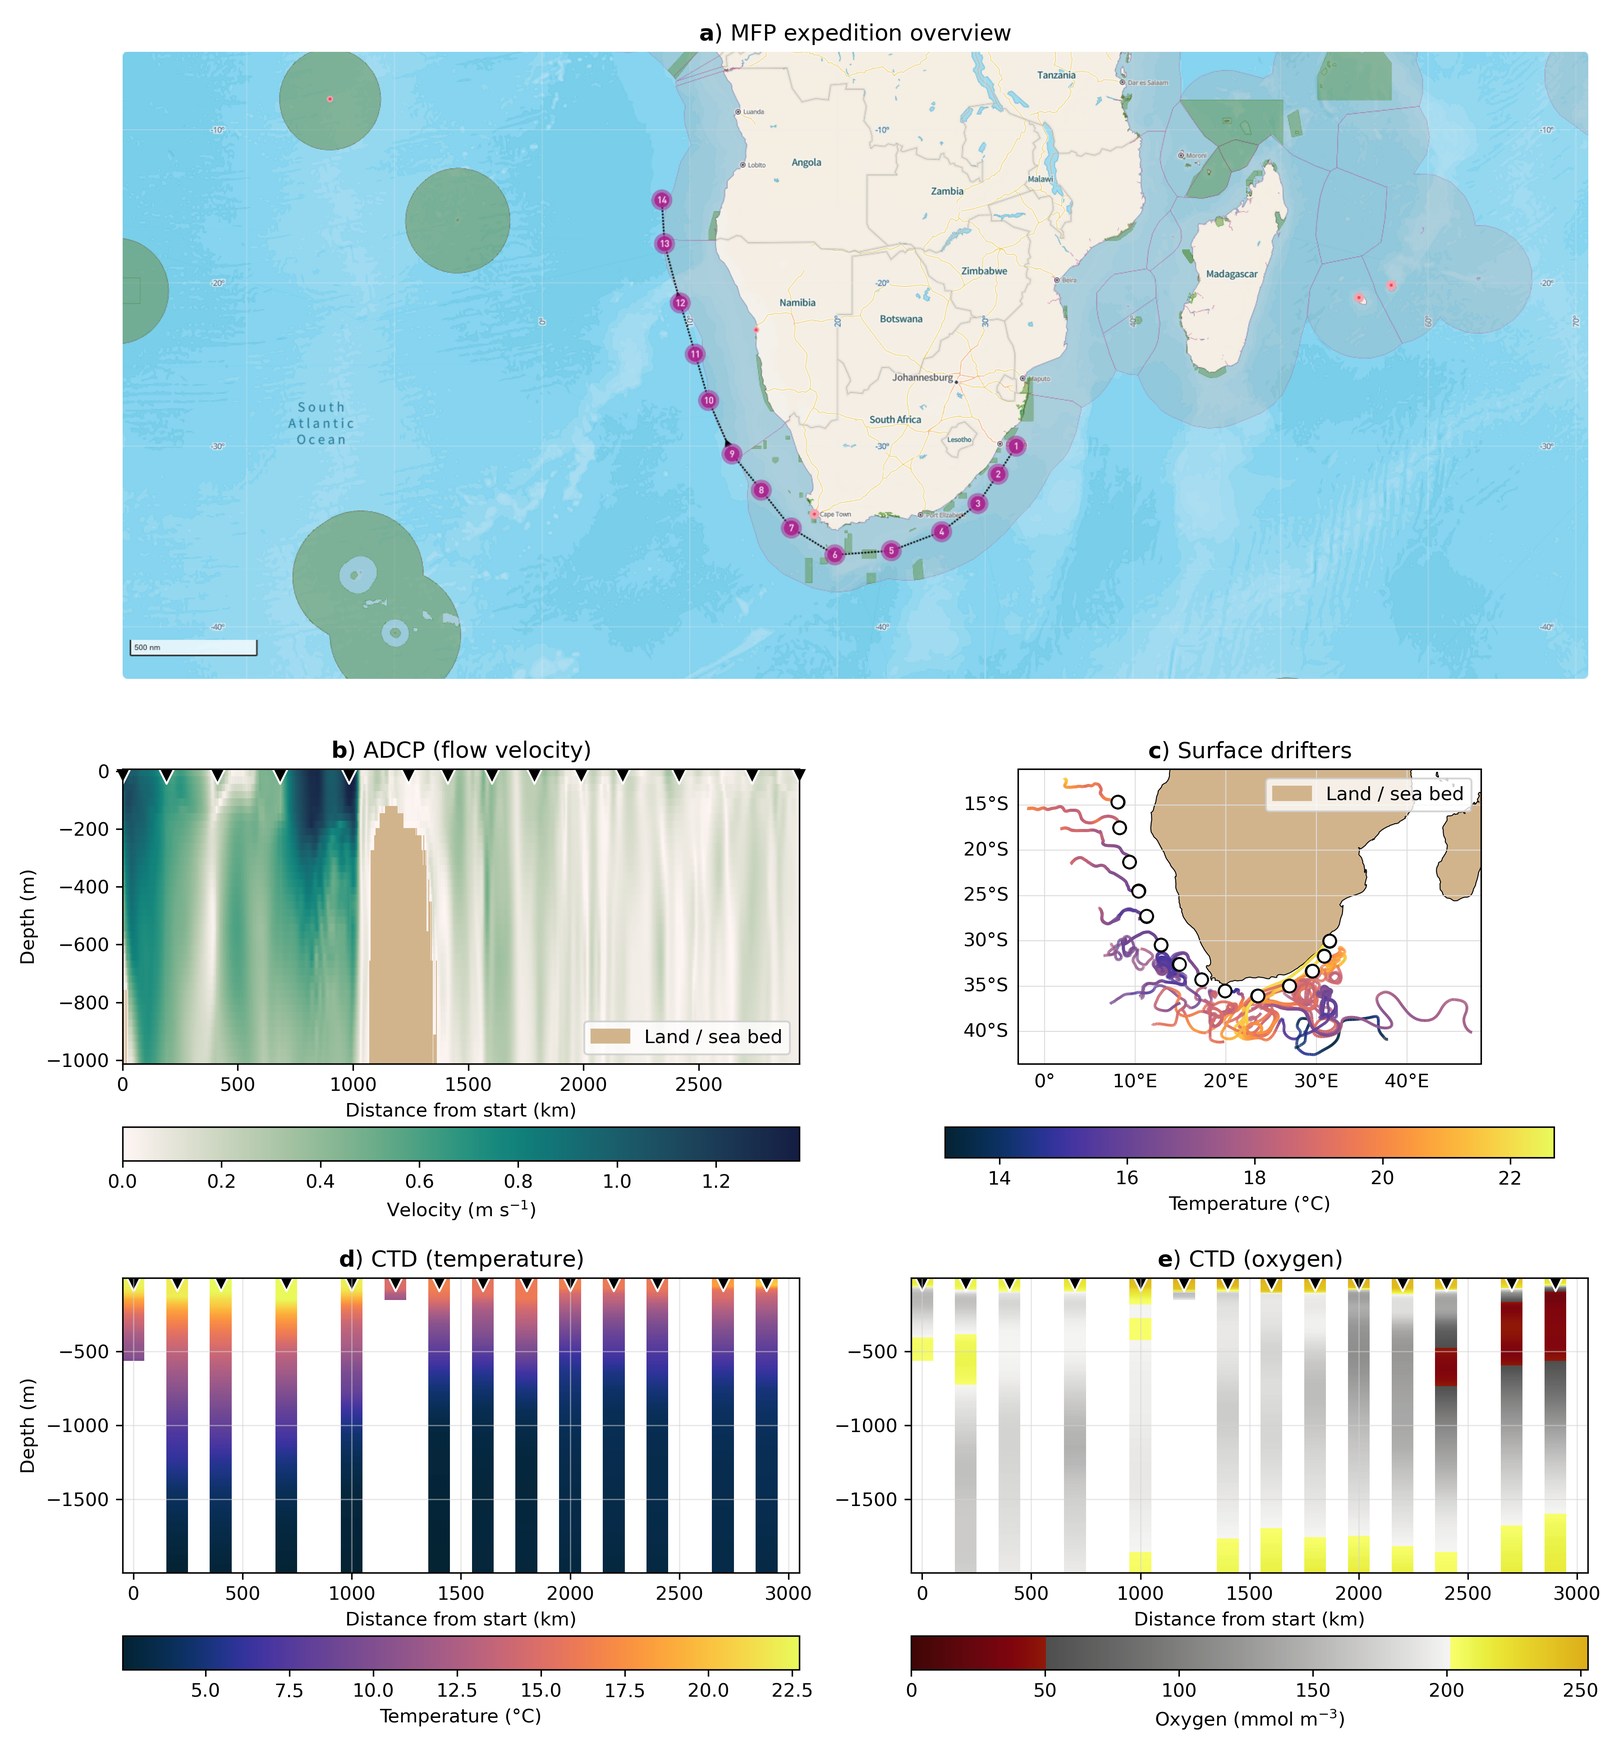
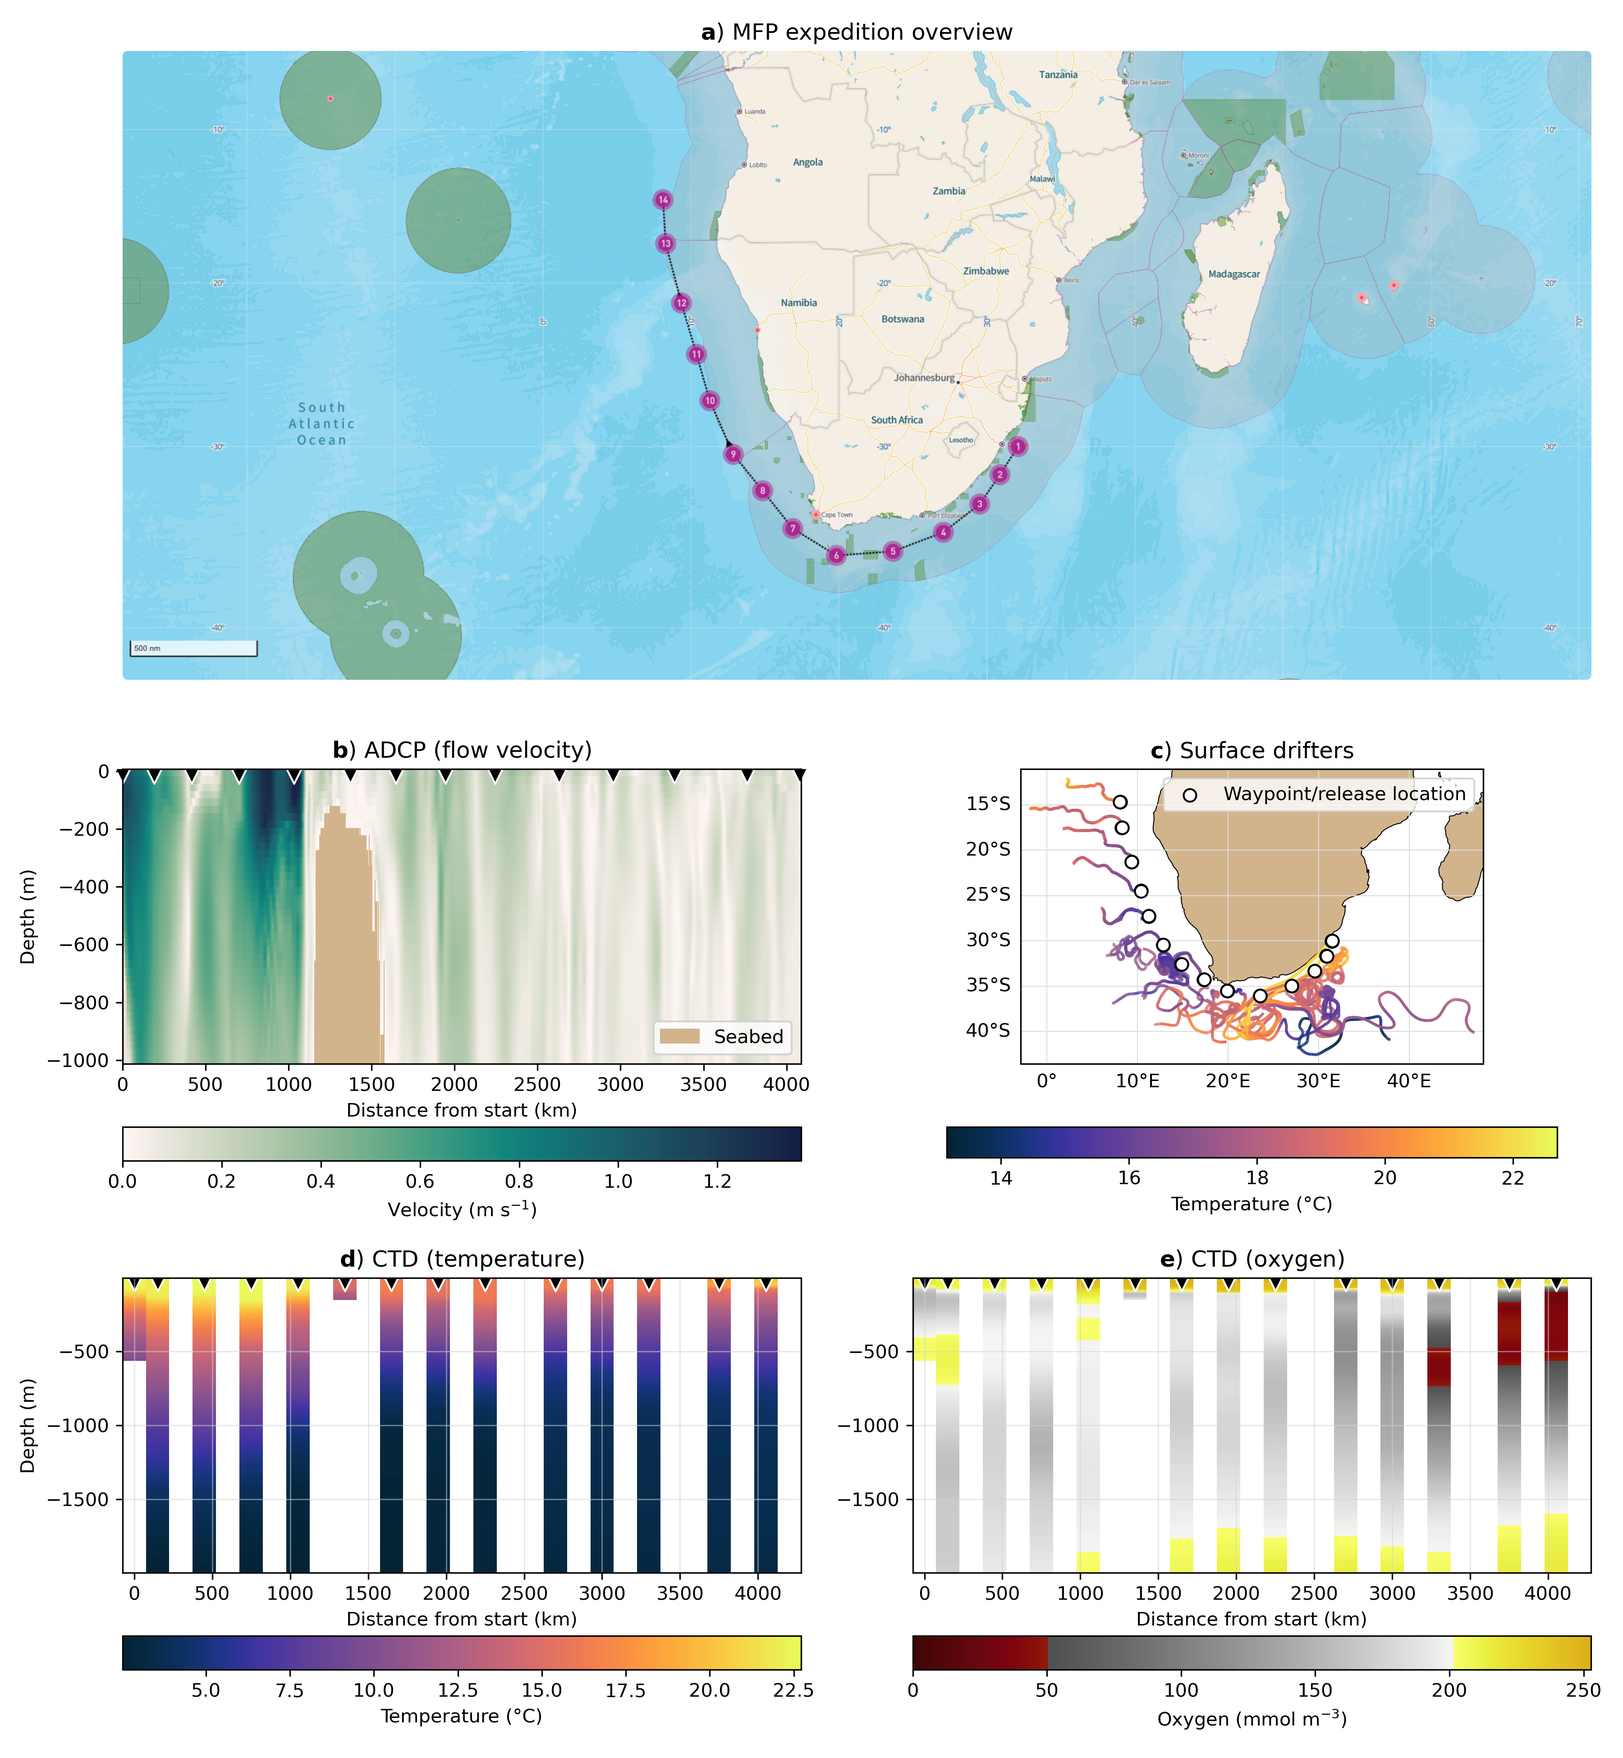
update draft

diff --git a/docs/paper/plotting_functions.py b/docs/paper/plotting_functions.py
@@ -52,7 +52,9 @@ def plot_drifters(drifter_ds, ax, vmin, vmax, PLOT_VARIABLE="temperature"):
             edgecolor="black",
             zorder=4,
             transform=PROJ,
-            label="Release" if i == 0 else None,  # only label first for legend
+            label="Waypoint/release location"
+            if i == 0
+            else None,  # only label first for legend
         )
 
     # additional map features
@@ -67,6 +69,7 @@ def plot_drifters(drifter_ds, ax, vmin, vmax, PLOT_VARIABLE="temperature"):
     )
     ax.coastlines(linewidth=0.5, color="black")
     ax.add_feature(cfeature.LAND, facecolor="tan")
+
     gl = ax.gridlines(
         draw_labels=True,
         linewidth=0.5,
@@ -83,9 +86,8 @@ def plot_drifters(drifter_ds, ax, vmin, vmax, PLOT_VARIABLE="temperature"):
         drifter_ds[PLOT_VARIABLE], cmo.thermal, ax, "Temperature (°C)", vmin, vmax
     )
 
-    # legend (incl. for sea bed)
-    tan_patch = mpatches.Patch(color=mcolors.to_rgba("tan"), label="Land / sea bed")
-    ax.legend(loc="best", handles=[tan_patch], fontsize=10)
+    # legend
+    ax.legend(loc="best", fontsize=10)
 
 
 # CTDs
@@ -101,7 +103,7 @@ def plot_ctd(ds, ax, plot_variable, vmin, vmax, axes_labels=False):
         "oxygen": "Oxygen (mmol m$^{-3}$)",
     }
 
-    ctd_distance = _ctd_distance_from_start(ds)
+    ctd_distance = _ctd_distance_along_expedition(ds)
 
     # exract descent-only data
     z_down = _ctd_descent_only(ctd_distance, "z")
@@ -155,7 +157,7 @@ def plot_adcp(ds, ax, axes_labels=False):
     """Absolute velocity plot."""
     CMAP = cmo.tempo
 
-    distance_1d = _adcp_distance_from_start(ds.isel(trajectory=0))
+    distance_1d = _adcp_distance_along_expedition(ds.isel(trajectory=0))
     vel, _, _, _ = calc_velocities(ds)
     landmask = xr.where(((ds["U"] == 0) & (ds["V"] == 0)), 1, np.nan)
 
@@ -178,7 +180,7 @@ def plot_adcp(ds, ax, axes_labels=False):
     ax.set_xlim(0, distance_1d.max() / 1000)
 
     # legend for sea bed
-    tan_patch = mpatches.Patch(color=mcolors.to_rgba("tan"), label="Land / sea bed")
+    tan_patch = mpatches.Patch(color=mcolors.to_rgba("tan"), label="Seabed")
     ax.legend(handles=[tan_patch], loc="lower right")
 
     _add_cmap(
@@ -217,29 +219,30 @@ def _haversine(lon1, lat1, lon2, lat2):
     return 6371000 * c
 
 
-def _ctd_distance_from_start(ds):
-    """Add 'distance' variable: meters from first waypoint."""
-    lon0, lat0 = (
-        ds.isel(trajectory=0)["lon"].values[0],
-        ds.isel(trajectory=0)["lat"].values[0],
-    )
-    d = np.zeros_like(ds["lon"].values, dtype=float)
-    for ob, (lon, lat) in enumerate(zip(ds["lon"], ds["lat"], strict=False)):
-        d[ob] = _haversine(lon, lat, lon0, lat0)
+def _ctd_distance_along_expedition(ds):
+    """Add 'distance' variable: cumulative meters travelled."""
+    # cumulative distance travelled along waypoints
+
+    d = np.zeros_like(ds["lon"], dtype=float)
+    for ob in range(1, len(ds["lon"])):
+        d[ob] = d[ob - 1] + _haversine(
+            ds["lon"][ob - 1], ds["lat"][ob - 1], ds["lon"][ob], ds["lat"][ob]
+        )
     ds["distance"] = xr.DataArray(
         d,
         dims=ds["lon"].dims,
-        attrs={"long_name": "distance from first waypoint", "units": "m"},
+        attrs={"long_name": "cumulative distance travelled", "units": "m"},
     )
     return ds
 
 
-def _adcp_distance_from_start(ds):
-    """Array of meters from first waypoint."""
-    lon0, lat0 = ds.isel(obs=0)["lon"].values, ds.isel(obs=0)["lat"].values
-    d = np.zeros_like(ds["lon"].values, dtype=float)
-    for ob, (lon, lat) in enumerate(zip(ds["lon"], ds["lat"], strict=False)):
-        d[ob] = _haversine(lon, lat, lon0, lat0)
+def _adcp_distance_along_expedition(ds):
+    """Array of cumulative meters travelled along ADCP waypoints."""
+    d = np.zeros_like(ds["lon"], dtype=float)
+    for ob in range(1, len(ds["lon"])):
+        d[ob] = d[ob - 1] + _haversine(
+            ds["lon"][ob - 1], ds["lat"][ob - 1], ds["lon"][ob], ds["lat"][ob]
+        )
     return d
 
 
@@ -281,13 +284,13 @@ def _get_profile_indices(distance_1d):
     """
     dist_min, dist_max = float(distance_1d.min()), float(distance_1d.max())
     if dist_max > 1e6:
-        dist_step = 1e5
+        dist_step = 1.5e5
     elif dist_max > 1e5:
-        dist_step = 1e4
+        dist_step = 1.5e4
     elif dist_max > 1e4:
-        dist_step = 1e3
+        dist_step = 1.5e3
     else:
-        dist_step = 1e2  # fallback for very short transects
+        dist_step = 1.5e2  # fallback for very short transects
 
     distance_regular = np.arange(dist_min, dist_max + dist_step, dist_step)
     threshold = dist_step / 2

diff --git a/docs/paper/figure1.py b/docs/paper/figure1.py
@@ -7,7 +7,7 @@ import matplotlib.pyplot as plt
 import numpy as np
 import xarray as xr
 from plotting_functions import (
-    _ctd_distance_from_start,
+    _ctd_distance_along_expedition,
     plot_adcp,
     plot_ctd,
     plot_drifters,
@@ -28,9 +28,11 @@ adcp_ds = xr.open_dataset(f"{SAMPLE_DIR}{EXPEDITION}/results/adcp.zarr")
 
 # %%
 
+# plot
+
 PROJ = ccrs.PlateCarree()
 
-waypoint_distances = np.unique(_ctd_distance_from_start(ctd_ds)["distance"])
+waypoint_distances = np.unique(_ctd_distance_along_expedition(ctd_ds)["distance"])
 
 
 def add_waypoint_markers(ax, distances, offset=15, marker_size=70):

diff --git a/docs/paper/paper.md b/docs/paper/paper.md
@@ -51,41 +51,33 @@ Marine science relies on fieldwork for data collection, yet sea-going opportunit
 
 # Functionality
 
-`VirtualShip` simulates the deployment of virtual instruments commonly used in oceanographic fieldwork, with empahsis on realism and authenticity in how users plan and execute expeditions. Current instrument implementations include surface `Drifter`, `CTD` (Conductivity-Temperature-Depth), `Argo` float, `XBT` (Expendable Bathythermograph), `ADCP` (Acoustic Doppler Current Profiler) and ship-mounted `Underway` temperature/salinity instruments.
+`VirtualShip` simulates the deployment of virtual instruments commonly used in oceanographic fieldwork, with empahsis on realism in how users plan and execute expeditions. For example, users must consider ship speed and instrument deployment/recovery times to ensure their expedition is feasible within given time constraints. Possible instrument implementations include surface `Drifter`, `CTD` (Conductivity-Temperature-Depth), `Argo float`, `XBT` (Expendable Bathythermograph), underway `ADCP` (Acoustic Doppler Current Profiler) and underway `Underwater_temperature/salinity` probes. More detail on each instrument is available in the [documentation](https://virtualship.readthedocs.io/en/latest/user-guide/assignments/Research_proposal_intro.html#Measurement-Options).
 
-The software is designed to be accessible for the user. It is wrapped into three high-level command line interface commands (using [Click](https://click.palletsprojects.com/en/stable/)):
+\autoref{fig:fig1} shows an example expedition around the Agulhas Current and South Eastern Atlantic, deploying a suite of instruments to sample physical and biogeochemical properties. Notable oceanographic features, such as the strong Agulhas Current and Agulhas Retroflection (drifters retroflecting back into the Indian Ocean), are clearly visible via the underway ADCP measurements and drifter releases in the early waypoints (\autoref{fig:fig1}b and c). CTD profiles (\autoref{fig:fig1}d and e) also capture the vertical structure of temperature and oxygen across the expedition route, including the warmer surface waters of the Agulhas region (early waypoints) and the Oxygen Minimum Zone in the South Eastern Atlantic (final waypoints).
 
-1. `init`
-   - Initialises the expedition directory structure and a `expedition.yaml` configuration file, which controls the expedition route, instrument choices and deployment timings.
-   - A common workflow is for users to first define expedition waypoint locations via the external [NIOZ Marine Facilities Planning](https://nioz.marinefacilitiesplanning.com/cruiselocationplanning#) (MFP) mapping tool. The coordinates can be exported and fed into `init` via the `--from-mfp` CLI flag.
-2. `plan`
-   - Launches a user-friendly Terminal-based expedition planning User Interface (UI), built using `Textual` (https://textual.textualize.io/). This allows users to intuitively modify their expedition waypoint locations, timings and instrument selections.
-3. `run`
-   - Executes ...
+![Example VirtualShip expedition simulated in July/August 2023. Expedition waypoints (a), Underway ADCP measurements across the expedition route (b), Surface drifter releases per waypoint (c; 90-day lifetime per drifter), and CTD vertical profiles per waypoint (as a function of cumulative distance across the expedition) for temperature (d) and oxygen (e). Black triangles in b), d) and e) mark locations of waypoints across expedition route, corresponding to the purple markers in a).\label{fig:fig1}](figure1.png)
 
-Emphasis is placed on making the expedition planning procedure as realistic as possible, with users needing to consider ship speed and instrument deployment/recovery times to ensure that their expedition is feasible within given time constraints.
+The software is designed to be highly accessible to the user. It is wrapped into three high-level command line interface commands (using [Click](https://click.palletsprojects.com/en/stable/)):
+
+1. `init`: Initialises the expedition directory structure and a `expedition.yaml` configuration file, which controls the expedition route, instrument choices and deployment timings. A common workflow is for users to first define expedition waypoint locations via the external [NIOZ Marine Facilities Planning](https://nioz.marinefacilitiesplanning.com/cruiselocationplanning#) (MFP) mapping tool. The coordinates can be exported and fed into `init` via the `--from-mfp` CLI flag.
+2. `plan`: Launches a user-friendly Terminal-based expedition planning User Interface (UI), built using [`Textual`](https://textual.textualize.io/). This allows users to intuitively modify their expedition waypoint locations, timings and instrument selections.
+3. `run`: Executes the virtual expedition according the planned configuration. This includes streaming data via the Copernicus Marine Data Store, simulating the instrument beahviours and sampling, and saving the resulting data in [`Zarr`](https://zarr.dev/) format.
 
 A full example workflow is outlined in the [Quickstart Guide](https://virtualship.readthedocs.io/en/latest/user-guide/quickstart.html) documentation.
 
 # Implementation
 
-Under the hood, `VirtualShip` is highly modular and extensible. The workflows are designed around `Instrument` base classes and instrument-specific subclasses and methods. This means the platform can be easily extended to add new instrument types and behaviours. Instrument behaviours are encoded as `Parcels` kernels, which allows for customisability of behaviours and sampling strategies. For example, a `Drifter` advects passively with ocean currents, a `CTD` can perform vertical profiles and an `ArgoFloat` can cycle between ascent, descent and drift phases. All whilst sampling physical and/or biogeochemical fields at their respective locations and times.
+Under the hood, `VirtualShip` is modular and extensible. The workflows are designed around `Instrument` base classes and instrument-specific subclasses and methods. This means the platform can be easily extended to add new instrument types. Instrument behaviours are encoded as `Parcels` kernels, which allows for extensive customisability. For example, a `Drifter` advects passively with ocean currents, a `CTD` performs vertical profiling in the water column and an `ArgoFloat` cycles between ascent, descent and drift phases, all whilst sampling physical and/or biogeochemical fields at their respective locations and times.
 
-Moreover, the data ingestion system, relies on streaming ARCO (FILL IN FULL NAME AND REF THAT ABERNATHY PAPER) data directly from the Copernicus Marine Data Store, via the [`copernicusmarine`](https://github.com/mercator-ocean/copernicus-marine-toolbox) Python toolbox. This means users can simulate expeditions anywhere in the global ocean without downloading large datasets by default. Leveraging the suite of [physics and biogeochemical products](https://virtualship.readthedocs.io/en/latest/user-guide/documentation/copernicus_products.html) available on the Copernicus plaform, expeditions are possible from 1993 to present day and forecasted two weeks into the future. There is also an option for the user to specify local `NetCDF` files for data ingestion, if preferred, with the necessary file stuctures and naming conventions outlined in the relevant [documentation](https://virtualship.readthedocs.io/en/latest/user-guide/documentation/example_copernicus_download.html).
+Moreover, the data ingestion system, relies on streaming Analysis-Ready and Cloud-Optimized (ARCO; https://www.frontiersin.org/journals/climate/articles/10.3389/fclim.2021.782909/full, [@Abernathey2021]) data directly from the Copernicus Marine Data Store, via the [`copernicusmarine`](https://github.com/mercator-ocean/copernicus-marine-toolbox) Python toolbox. This means users can simulate expeditions anywhere in the global ocean without downloading large datasets by default. Leveraging the suite of [physics and biogeochemical products](https://virtualship.readthedocs.io/en/latest/user-guide/documentation/copernicus_products.html) available on the Copernicus plaform, expeditions are possible from 1993 to present day and forecasted two weeks into the future. There is also an option for the user to specify local `NetCDF` files for data ingestion, if preferred, with the necessary file stuctures and naming conventions outlined in the relevant [documentation](https://virtualship.readthedocs.io/en/latest/user-guide/documentation/example_copernicus_download.html).
 
-# Applications
+# Applications and future outlook
 
-`VirtualShip` has already been extensvely applied in Master's teaching settings at Utrecht University as part of the "VirtualShip Classroom" initiative. Educational assignments have been developed alongside to integrate the tool into coursework, including projects where students design their own research question(s) and execute their fieldwork and analysis using `VirtualShip`. Its application has been shown to be successful, with students reporting increased self-efficacy and knowledge in executing oceanographic fieldwork [@Daniels2025].
+`VirtualShip` has already been extensvely applied in Master's teaching settings at Utrecht University as part of the "VirtualShip Classroom" initiative. Educational assignments and tutorials have been developed alongside to integrate the tool into coursework, including projects where students design their own research question(s) and execute their fieldwork and analysis using `VirtualShip`. Its application has been shown to be successful, with students reporting increased self-efficacy and knowledge in executing oceanographic fieldwork [@Daniels2025].
 
-We provide extensive documentation and tutorials to help users use `VirtualShip` and also provide a starting point for their post-processing analysis and visualisation of the virtual expedition data.
+We encourage researchers to use `VirtualShip` a cost-effective means to plan future expeditions, as tool for accessing ocean model data in a realistic manner, and to compare models to observations in a like-for-like manner. Both the customisability of the `VirtualShip` platform and the exciting potential for new ARCO-based data hosting services in domains beyond oceanography (e.g., [atmospheric science](https://climate.copernicus.eu/work-progress-our-data-stores-turn-arco)) means there is potential to extend VirtualShip (or "VirtualShip-like" tools) to other domains in the future.
 
-Encourage researchers to use `VirtualShip` to ...
-
-<!-- Both the customisability of the `VirtualShip` platform and the exciting potential for new ARCO-based data hosting services in domains beyond oceanography (e.g., atmospheric science; INSERT C3S ARCO BLOG POST) means there is potential to extend VirtualShip (or "VirtualShip-like" tools) to other domains in the future. -->
-
-As the `Parcels` underpinnings themselves continue to evolve, with a future `v4.0` release focussed on alignment with [Pangeo](https://pangeo.io/) standards and specifically `xarray` data structures, `VirtualShip` will also benefit from these improvements, further enhancing its capabilities, extensibility and compatability with modern cloud-based data pipelines.
-
-We also plan to soon introduce a (optional) 'problems' bolt-on module, where users must take decisions to overcome common issues encountered during real-life fieldwork, such as instrument failures, adverse weather conditions and logistical delays.
+As the `Parcels` underpinnings in themselves continue to evolve, with a future (at time of writing) [v4.0 release](https://docs.oceanparcels.org/en/v4-dev/v4/) focussed on alignment with [Pangeo](https://pangeo.io/) standards and `xarray` data structures, `VirtualShip` will also benefit from these improvements, further enhancing its capabilities, extensibility and compatability with modern cloud-based data pipelines.
 
 # Acknowledgements
 
